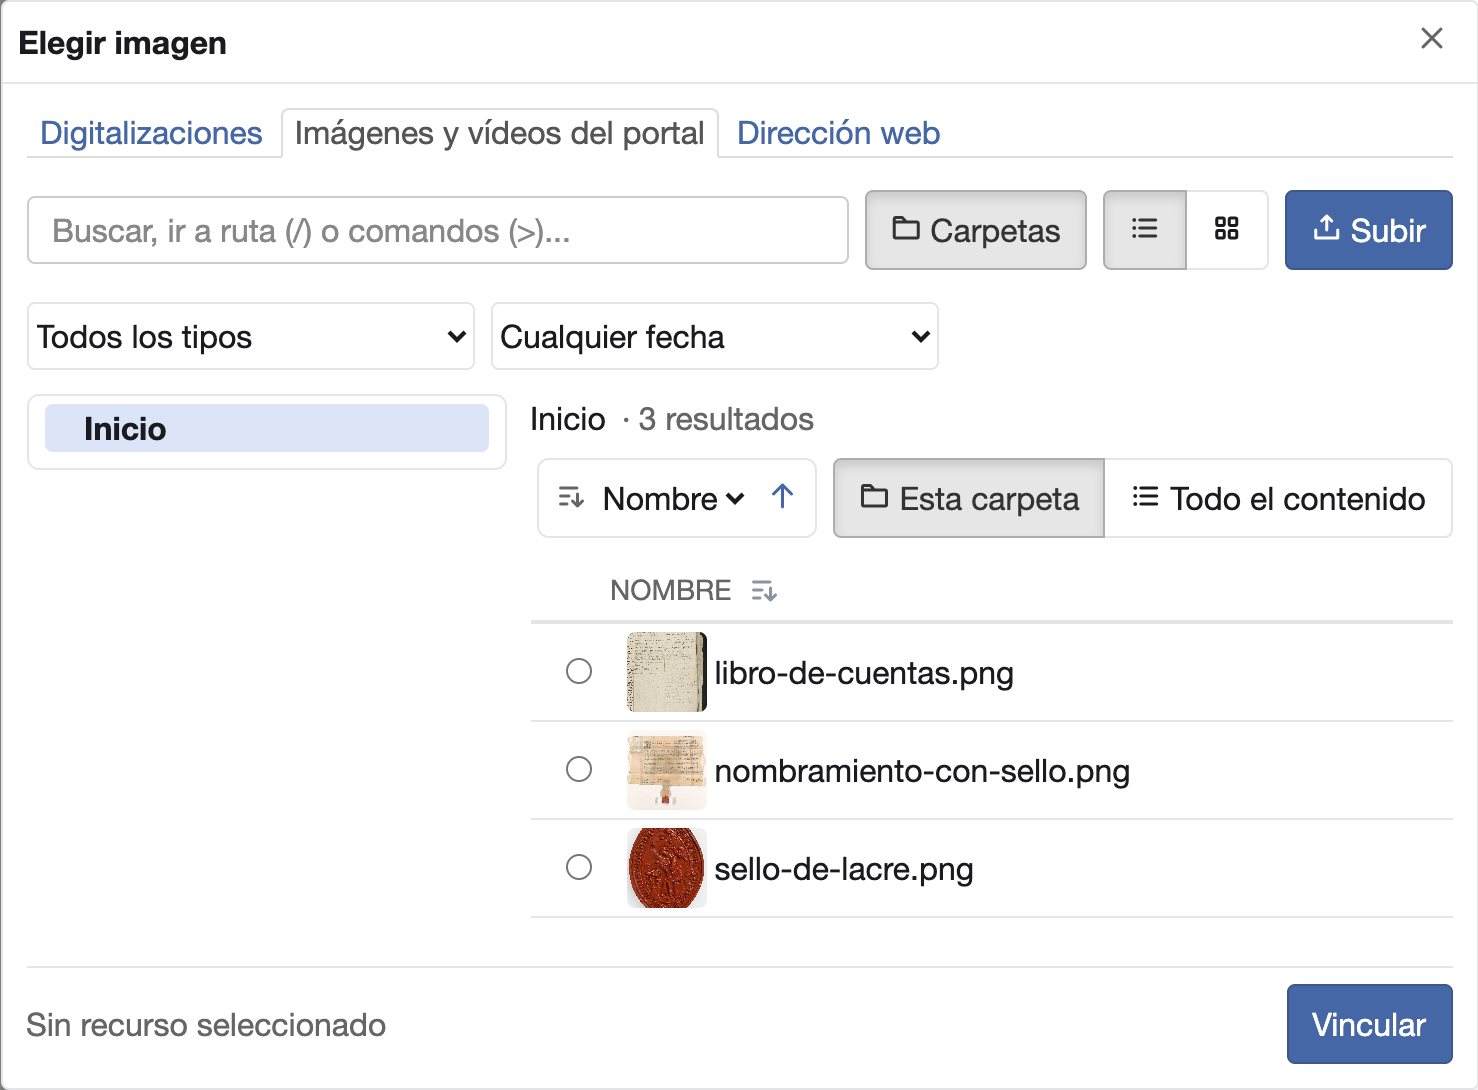
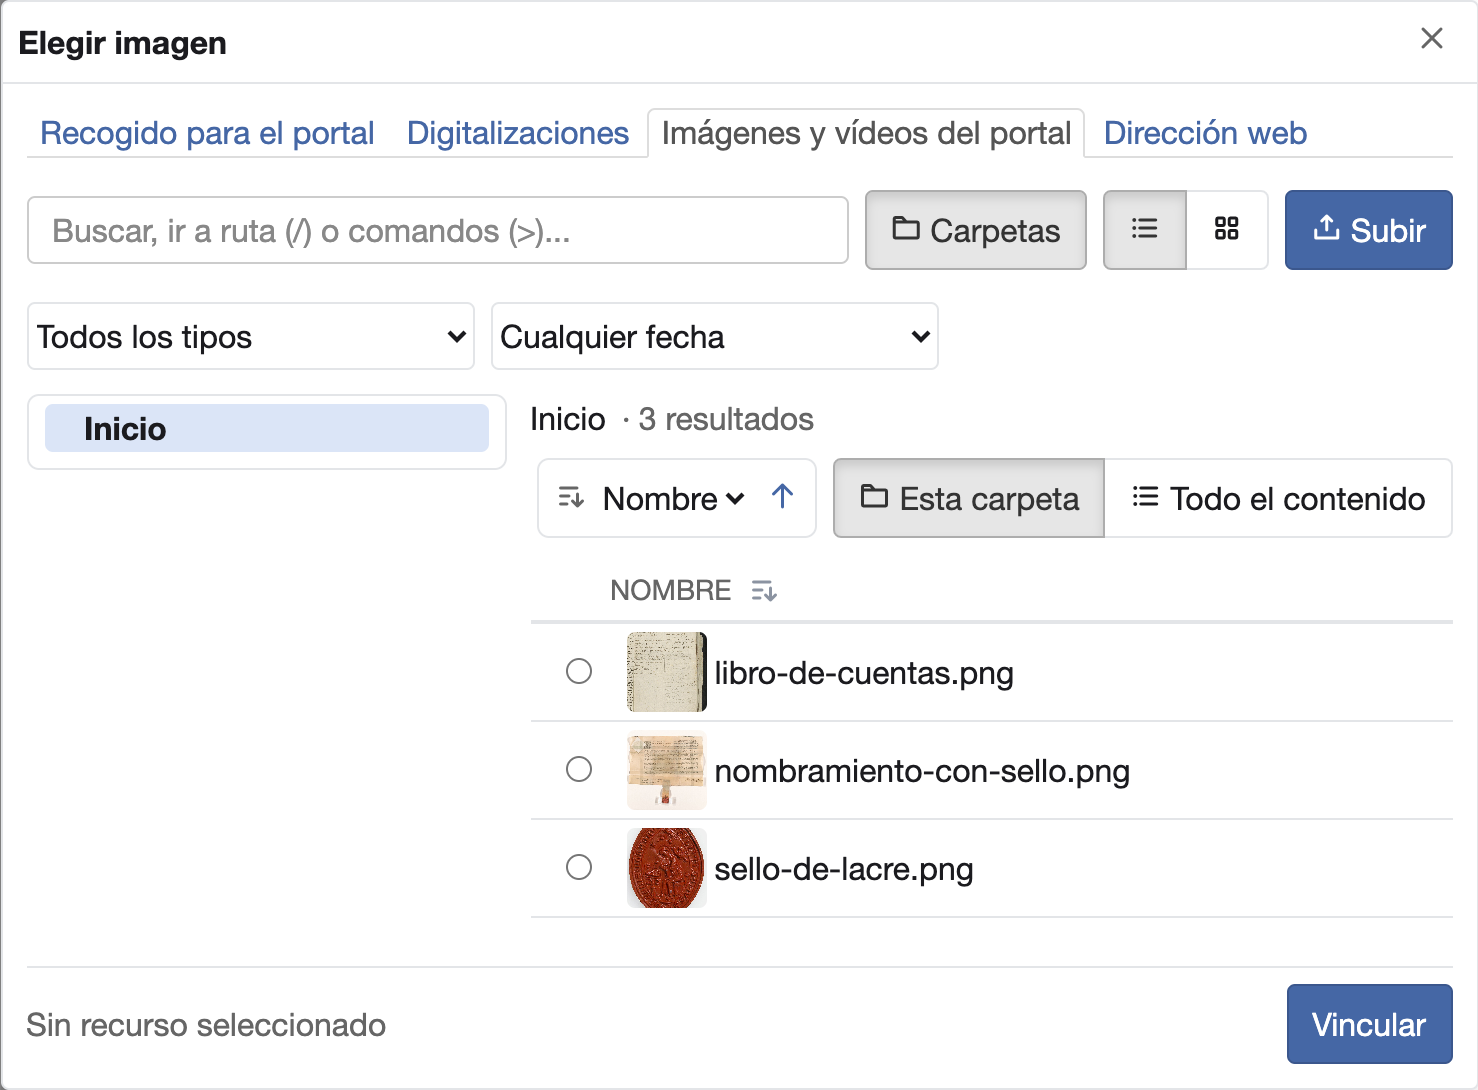
docs(user-guide): página «Elegir contenido del catálogo» y diálogo del enlace en «Elegir imágenes»
La guía explica cómo recoger fichas, búsquedas y niveles del cuadro en el catálogo, elegirlos en el editor y alimentar un bloque con una búsqueda. «Elegir imágenes» describe el diálogo del enlace con las páginas del portal y la ayuda de la dirección web; «Ampliar una imagen» dice lo que muestra el campo de enlace del ejemplo.

Changed region(s): [[0.0311, 0.0936, 0.8714, 0.156]]

diff --git a/docs/user-guide/diffusion-portal/choose-images.md b/docs/user-guide/diffusion-portal/choose-images.md
@@ -7,6 +7,8 @@ status: published
 Cada campo de imagen de un bloque, como **Imagen** o **Imagen de fondo**, se rellena desde el diálogo **Elegir
 imagen**. El diálogo tiene una pestaña por origen de la imagen:
 
+- **Recogido para el portal**: las fichas y las digitalizaciones que has recogido en el catálogo
+  ([Elegir contenido del catálogo](catalog-content.md)).
 - **Digitalizaciones**: las copias digitales asociadas a las descripciones del archivo.
 - **Imágenes y vídeos del portal**: un espacio aparte para el material propio de la web, como cabeceras, logotipos o
   adaptaciones de una imagen para la difusión.
@@ -44,8 +46,9 @@ elemento. Son el **Carrusel de cabecera**, la **Tira de imágenes de cabecera**,
 **Cuadrícula de elementos**, el **Mosaico de fotos**, la **Galería ajustada** y **Fondos y colecciones**.
 
 1. Selecciona el bloque y pasa a la pestaña **Elementos**.
-2. Pulsa **Añadir varias imágenes**. Se abre el diálogo **Elegir imágenes**, con las pestañas **Digitalizaciones** e
-   **Imágenes y vídeos del portal**. La pestaña **Dirección web** no sale aquí: cada dirección se escribe en su elemento.
+2. Pulsa **Añadir varias imágenes**. Se abre el diálogo **Elegir imágenes**, con las pestañas **Recogido para el
+   portal**, **Digitalizaciones** e **Imágenes y vídeos del portal**. En **Recogido para el portal** se marca cada
+   ficha o digitalización con su casilla y se pulsa **Añadir las marcadas**; los pasos 3 y 4 son para las otras dos pestañas. La pestaña **Dirección web** no sale aquí: cada dirección se escribe en su elemento.
 3. Entra en la carpeta y marca la casilla de cada imagen, en el orden en que quieres verlas. Abajo aparece
    «Seleccionados» con el número de imágenes marcadas y sus nombres.
 4. Pulsa **Vincular**, que lleva entre paréntesis cuántas has marcado, por ejemplo **Vincular (3)**.
@@ -151,8 +154,11 @@ Los avisos de cada fichero que no se ha guardado siguen a la vista hasta que ter
 En el diálogo, pulsa la pestaña **Dirección web**. La dirección de la imagen va en **Dirección web de la imagen**.
 Con **Usar esta dirección**, el diálogo se cierra y el campo muestra la imagen.
 
-Una imagen de otra web se ve mientras esa web la mantenga en la misma dirección. Si la cambia o la borra, deja de
-verse en tu página. Por eso es mejor guardar las imágenes en **Imágenes y vídeos del portal** o en **Digitalizaciones**.
+![La pestaña Dirección web, con el campo de la dirección y su ayuda.](../../assets/screenshots/es/diffusion-portal/choose-images/web-address.png){ width="739" }
+
+Bajo el campo, la ayuda dice «Si la web de origen mueve o borra la imagen, dejará de verse en tu página.». Una imagen
+de otra web se ve mientras esa web la mantenga en la misma dirección. Por eso es mejor guardar las imágenes en
+**Imágenes y vídeos del portal** o en **Digitalizaciones**.
 
 ## Qué se guarda en el campo
 
@@ -163,26 +169,36 @@ la imagen del almacén.
 La referencia solo la entiende el portal. No es una dirección para abrir en el navegador ni para compartir fuera de
 él.
 
-Una digitalización se puede elegir también escribiendo su referencia:
+Una digitalización se puede recoger en la administración y elegirla después en **Recogido para el portal**:
 
 1. Pulsa **Administración** en el menú superior y, después, **Gestión de digitalizaciones**.
 2. En la fila de la digitalización, pulsa **Más acciones** y después **Copiar referencia para el portal**. Sale el
-   aviso «Referencia copiada». La acción la ven las cuentas con permiso de administración del portal.
-3. En el editor, abre el diálogo de la imagen y pulsa la pestaña **Dirección web**. La referencia se usa como una
-   dirección web ([Usar una dirección web](#usar-una-direccion-web)).
+   aviso «Copiada y recogida para el portal». La acción la ven las cuentas con permiso de administración del portal.
+3. En el editor, abre el diálogo de la imagen. La digitalización sale en la pestaña **Recogido para el portal**, con
+   su nombre, y se elige con **Elegir** ([Elegir contenido del catálogo](catalog-content.md#elegirlo-en-el-editor)).
 
-La próxima vez que abras el diálogo de ese campo, se abre en la pestaña **Digitalizaciones**.
+## Elegir un enlace
 
-## Enlazar a una descripción del archivo
+Un campo de enlace, como **Enlace**, se elige en su propio diálogo, **Elegir enlace**, como una imagen. Mientras está
+vacío, el botón es **Elegir enlace…**. Con un enlace elegido, el campo dice a qué lleva, por ejemplo «Portada del
+portal» o «Ficha: Plano de la acequia de San Esteban de Litera», y ofrece **Cambiar** y **Quitar**. El diálogo se abre
+en la pestaña del origen del enlace elegido. Sus pestañas son:
 
-Un campo de enlace, como **Enlace**, no tiene diálogo: admite solo una dirección, que escribes en el campo. Para que
-lleve a una descripción del archivo, usa su referencia:
+- **Recogido para el portal**: las fichas, las búsquedas y los niveles del cuadro de clasificación que has recogido
+  ([Elegir contenido del catálogo](catalog-content.md)).
+- **Páginas del portal**: las páginas de tu portal, con su título y su ruta. Las que aún no has publicado llevan la
+  etiqueta **Sin publicar**.
+- **Dirección web**: la dirección de otro sitio.
 
-1. Busca la descripción con **Búsqueda**, en el menú superior.
-2. En su fila de resultados o en su ficha, pulsa **Copiar referencia para el portal**.
+![La pestaña Páginas del portal de Elegir enlace, con una página que lleva la etiqueta Sin publicar.](../../assets/screenshots/es/diffusion-portal/choose-images/link-pages.png){ width="739" }
 
-La referencia copiada, por ejemplo `opac://item/E783`, es la dirección que admite el campo de enlace. En la página
-publicada, el enlace lleva a la ficha de esa descripción.
+Para elegir una de las dos primeras, pulsa **Elegir** en su fila. Con una **Dirección web**, pulsa **Usar esta
+dirección**.
+
+**Sin publicar** quiere decir que la página es un borrador: los visitantes no la ven hasta que la publicas
+([Publicar una página](publish.md)).
+
+En la página publicada, el enlace a una ficha lleva a la ficha de esa descripción.
 
 ## Subir imágenes desde la administración
 
@@ -193,7 +209,8 @@ Las imágenes del portal también se suben y se organizan fuera del editor:
     ![Las tres imágenes subidas a Imágenes y vídeos del portal.](../../assets/screenshots/es/diffusion-portal/choose-images/portal-images.png){ width="638" }
 
 2. Pulsa **Subir**. En la ventana **Subir ficheros**, pulsa **Subir ficheros** y elige las imágenes de tu equipo, o
-   pulsa **Subir carpeta** y elige una carpeta.
+   pulsa **Subir carpeta** y elige una carpeta. Arriba, la ventana lleva la ayuda de los vídeos MP4
+   ([Un vídeo de la institución](video.md#un-video-de-la-institucion)).
 
     ![La ventana Subir ficheros de Imágenes y vídeos del portal.](../../assets/screenshots/es/diffusion-portal/choose-images/upload-window.png){ width="739" }
 

diff --git a/docs/user-guide/diffusion-portal/catalog-content.md b/docs/user-guide/diffusion-portal/catalog-content.md
@@ -1,0 +1,67 @@
+# Elegir contenido del catálogo
+
+Una ficha, una búsqueda o un nivel del cuadro de clasificación se pueden poner en una página del portal sin escribir
+ninguna dirección. Se recogen en el catálogo y se eligen después desde el editor.
+
+## Recoger en el catálogo
+
+La acción **Copiar referencia para el portal** la ven las cuentas con permiso de administración del portal. Está en:
+
+- la ficha de una descripción;
+- el visor de un adjunto, que recoge la digitalización;
+- las filas de los resultados que tienen signatura;
+- cada nivel del **Cuadro de fondos**.
+
+Para recoger una búsqueda entera, abre **Más acciones** en la página de resultados y pulsa **Copiar
+búsqueda para el portal**.
+
+Al pulsar, la acción cambia su texto a «Copiada y recogida para el portal». Además de copiar la referencia, la deja en tu
+lista de lo recogido, que el editor ofrece al elegir contenido. Una digitalización se recoge también desde **Gestión de
+digitalizaciones** ([Qué se guarda en el campo](choose-images.md#que-se-guarda-en-el-campo)).
+
+## Elegirlo en el editor
+
+En el diálogo de una imagen o de un enlace, la primera pestaña es **Recogido para el portal**. Sin nada recogido,
+dice «Aquí aparecen las fichas y las digitalizaciones que recojas en el catálogo con «Copiar referencia para el
+portal».».
+
+![El diálogo Elegir imagen con la pestaña Recogido para el portal, todavía vacía.](../../assets/screenshots/es/diffusion-portal/catalog-content/collected-tab.png){ width="739" }
+
+Lo último que recoges sale arriba. Una ficha, una búsqueda o un nivel se nombra por su tipo y su título, por ejemplo
+«Ficha: Plano de la acequia de San Esteban de Litera», y una digitalización por el nombre de su fichero. Cada entrada
+tiene dos botones:
+
+- **Elegir** la pone en el campo.
+- **Quitar de lo recogido** la saca de la lista, sin pedir confirmación. No borra nada del catálogo.
+
+Un campo de imagen ofrece las fichas y las digitalizaciones. Una ficha que tiene imagen sale con ella, y el campo la
+muestra con su miniatura, el título de la ficha y su tamaño. Un campo de enlace ofrece las fichas, las búsquedas y los
+niveles del cuadro; las búsquedas y los niveles no llevan miniatura y el hueco queda vacío.
+
+El diálogo **Elegir imágenes**, el de **Añadir varias imágenes**, también tiene esta pestaña. Allí cada ficha y cada
+digitalización lleva una casilla en lugar de **Elegir**, y se pulsa **Añadir las marcadas**.
+
+El enlace se explica en [Elegir un enlace](choose-images.md#elegir-un-enlace).
+
+## Un bloque con una búsqueda
+
+Los bloques con elementos, como el **Carrusel de cabecera**, pueden tomarlos de una búsqueda en lugar de escribirlos
+uno a uno.
+
+1. Selecciona el bloque y pasa a la pestaña **Elementos**.
+2. En **De dónde salen los elementos**, elige **De una búsqueda del catálogo**.
+3. Pulsa **Elegir búsqueda…**. El diálogo **Elegir búsqueda** lista las búsquedas que has recogido.
+
+    ![El origen De una búsqueda del catálogo, con Elegir búsqueda…, el número de elementos y el orden.](../../assets/screenshots/es/diffusion-portal/catalog-content/items-source.png){ width="395" }
+
+Con la búsqueda elegida, el bloque muestra su nombre, por ejemplo «Búsqueda: Cualquier término contiene archivo», con
+**Cambiar** y **Quitar**. **Quitar** devuelve el bloque a **Los que añado yo**, con los elementos que ya tenía.
+
+**Número de elementos** admite de 1 a 30. **Orden** ofrece **El de la búsqueda**, **Título**, **Fecha, de la más
+antigua a la más reciente**, **Fecha, de la más reciente a la más antigua** y **Signatura**.
+
+El bloque enseña las fichas que vería un visitante sin sesión del sitio público, también en **Vista previa**. Los
+elementos que habías añadido a mano se conservan, pero no se muestran.
+
+Si ese visitante no vería ninguna ficha, debajo sale el aviso «Un visitante sin sesión no vería ninguna ficha de esta
+búsqueda, así que el bloque saldrá vacío.».

diff --git a/docs/user-guide/diffusion-portal/image-zoom.md b/docs/user-guide/diffusion-portal/image-zoom.md
@@ -34,7 +34,7 @@ guarda ([Guardar los cambios](save-changes.md)).
 Las otras opciones de **Al pulsar la imagen** son:
 
 - **Ir al enlace**, la que tiene un bloque nuevo: la imagen lleva a la dirección de **Enlace**, arriba en el panel. La
-  del ejemplo lleva a la portada del portal y en el campo **Enlace** se ve escrita `app:///`.
+  del ejemplo lleva a la portada del portal y el campo **Enlace** muestra «Portada del portal».
 - **Nada**: la imagen no responde al clic.
 
 ## Comprobar el resultado
@@ -62,7 +62,7 @@ pulsarla se eligen en el formulario del elemento, en **Imágenes ampliadas**.
 
 En el formulario de cada imagen, su **Título** sale como pie de la imagen ampliada, y su **Enlace a la ficha** puede
 ser la referencia de su descripción en el archivo
-([Enlazar a una descripción del archivo](choose-images.md#enlazar-a-una-descripcion-del-archivo)). La colección se
+([Elegir un enlace](choose-images.md#elegir-un-enlace)). La colección se
 guarda con **Guardar elemento**.
 
 Para añadir una sola imagen, pulsa **Añadir imagen** y, en su **Fichero**, **Elegir imagen…**. Con **Eliminar

diff --git a/docs/user-guide/diffusion-portal/index.md b/docs/user-guide/diffusion-portal/index.md
@@ -19,6 +19,7 @@ escribir código. Esta sección explica, tarea a tarea, cómo hacerlo.
 - [Elegir las imágenes de un bloque](choose-images.md)
 - [Poner un vídeo](video.md)
 - [Empezar desde una plantilla y mantenerlas](templates.md)
+- [Elegir contenido del catálogo](catalog-content.md)
 
 ## Antes de empezar
 
